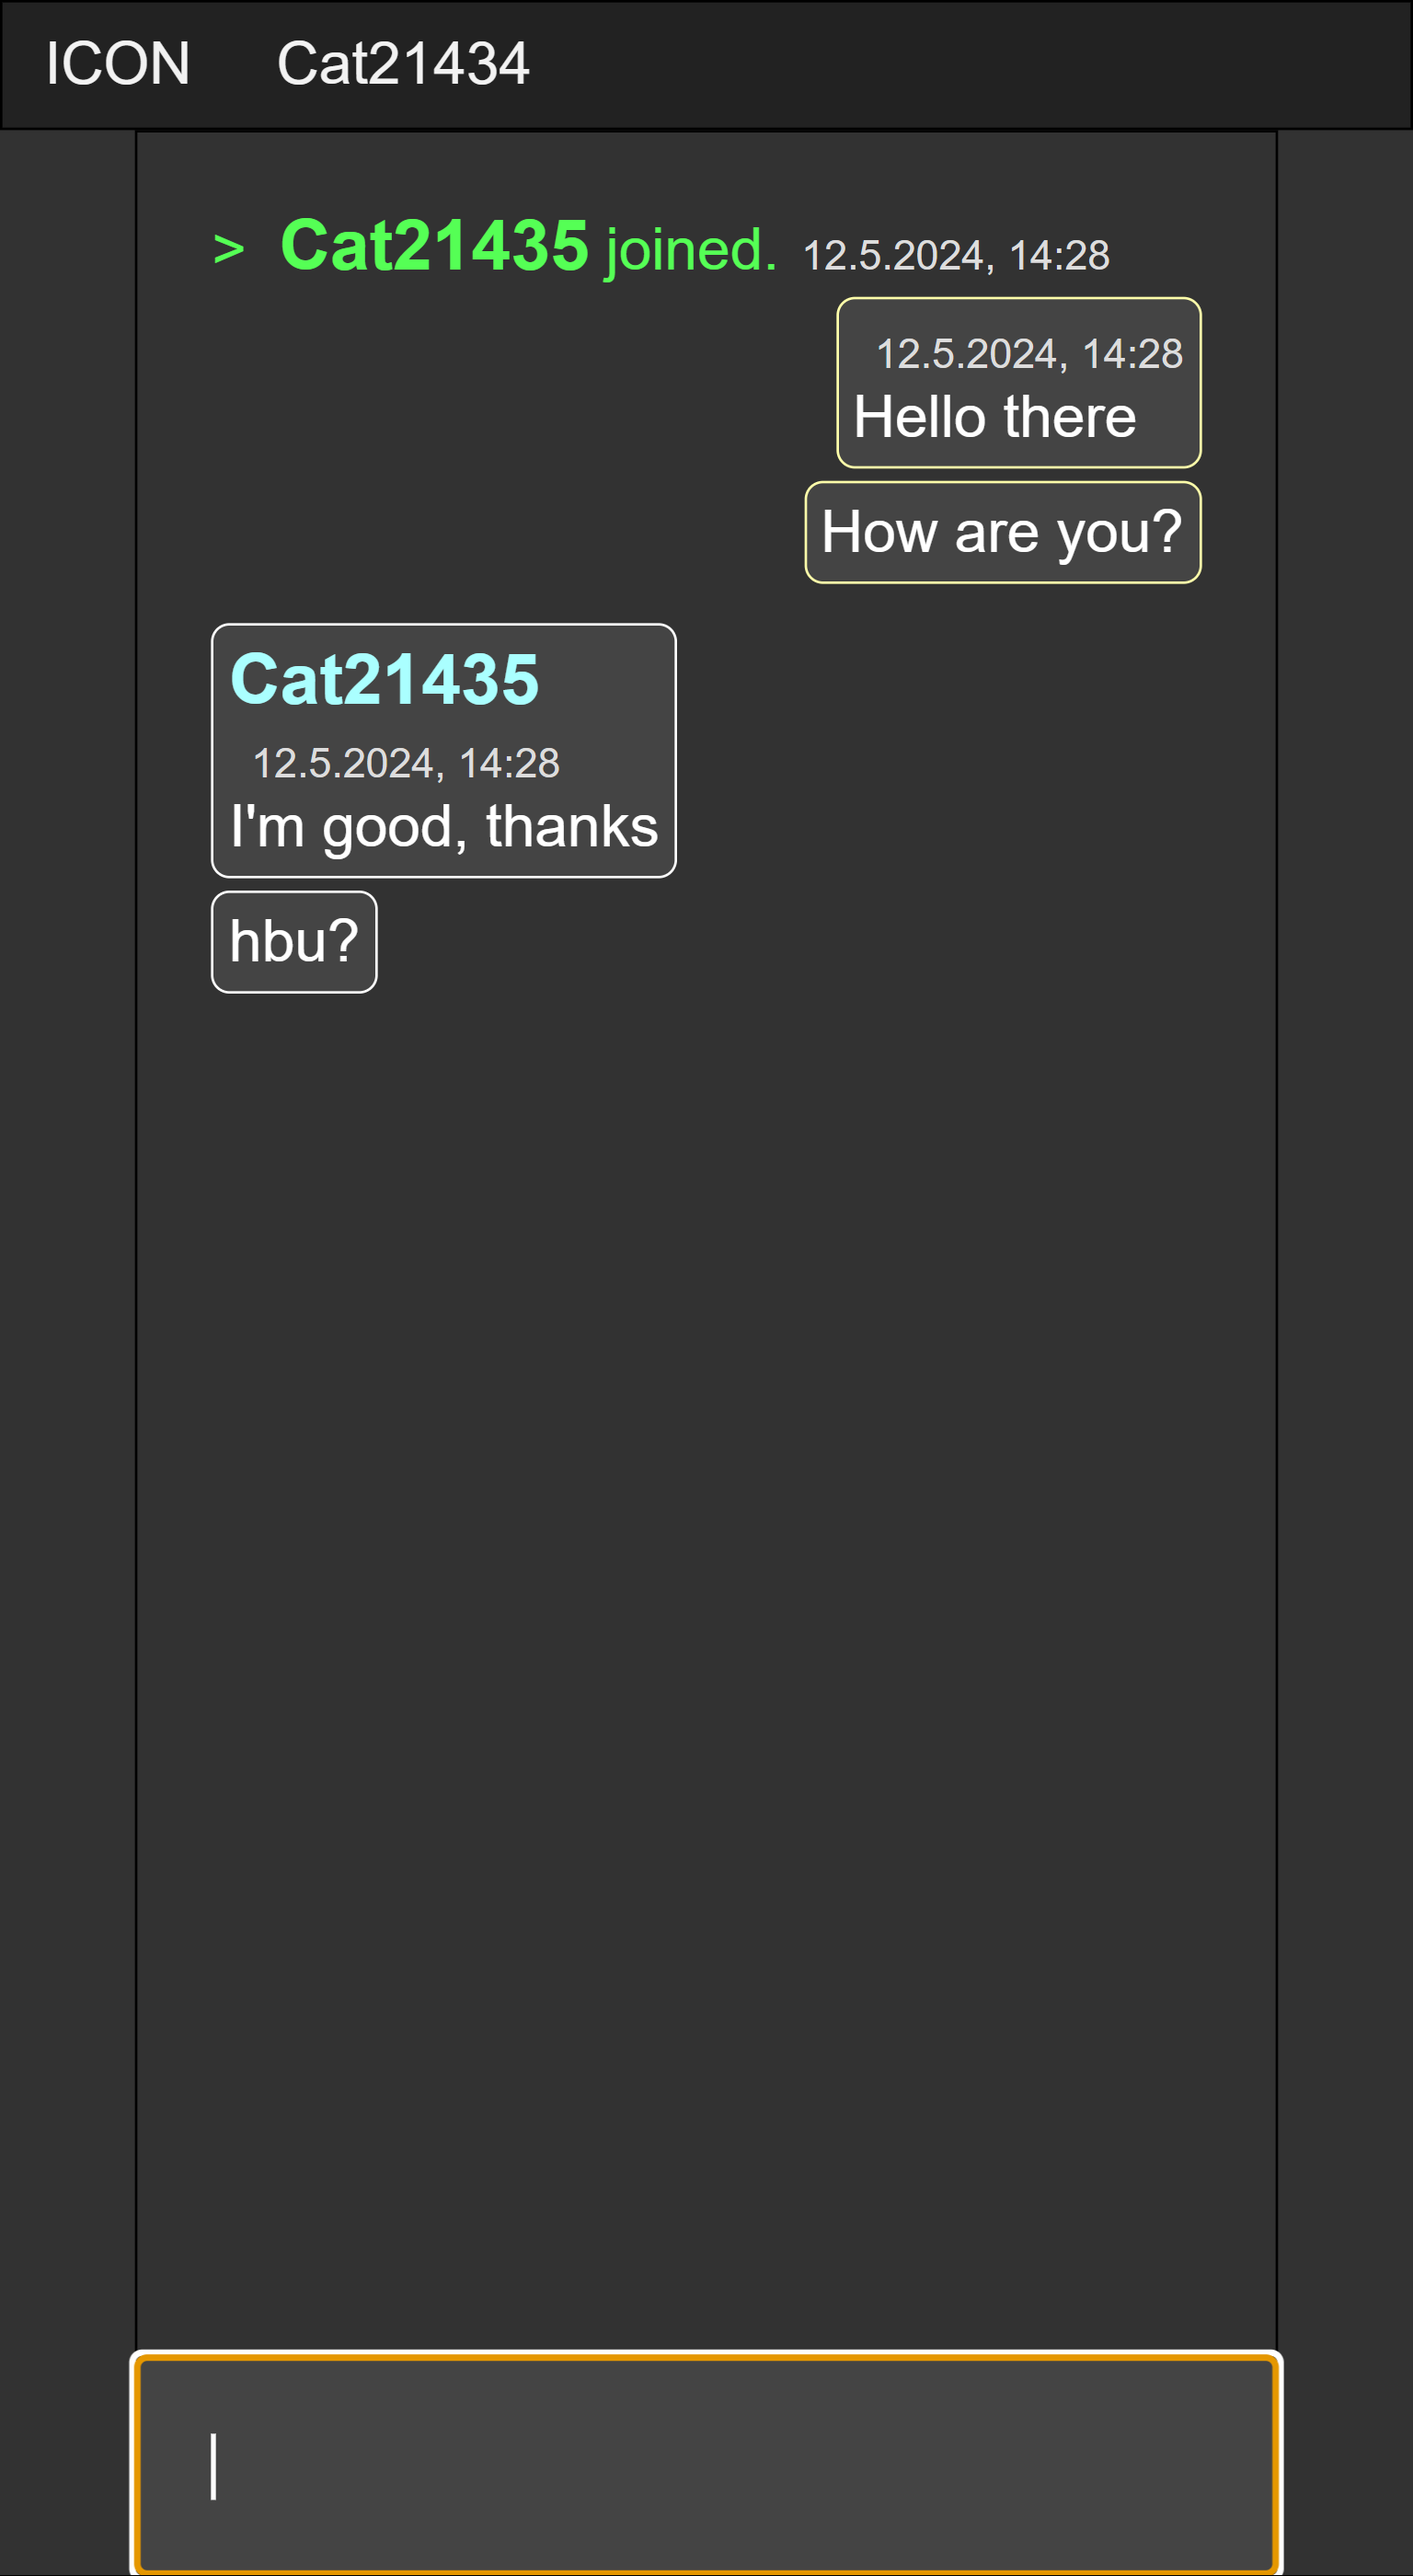
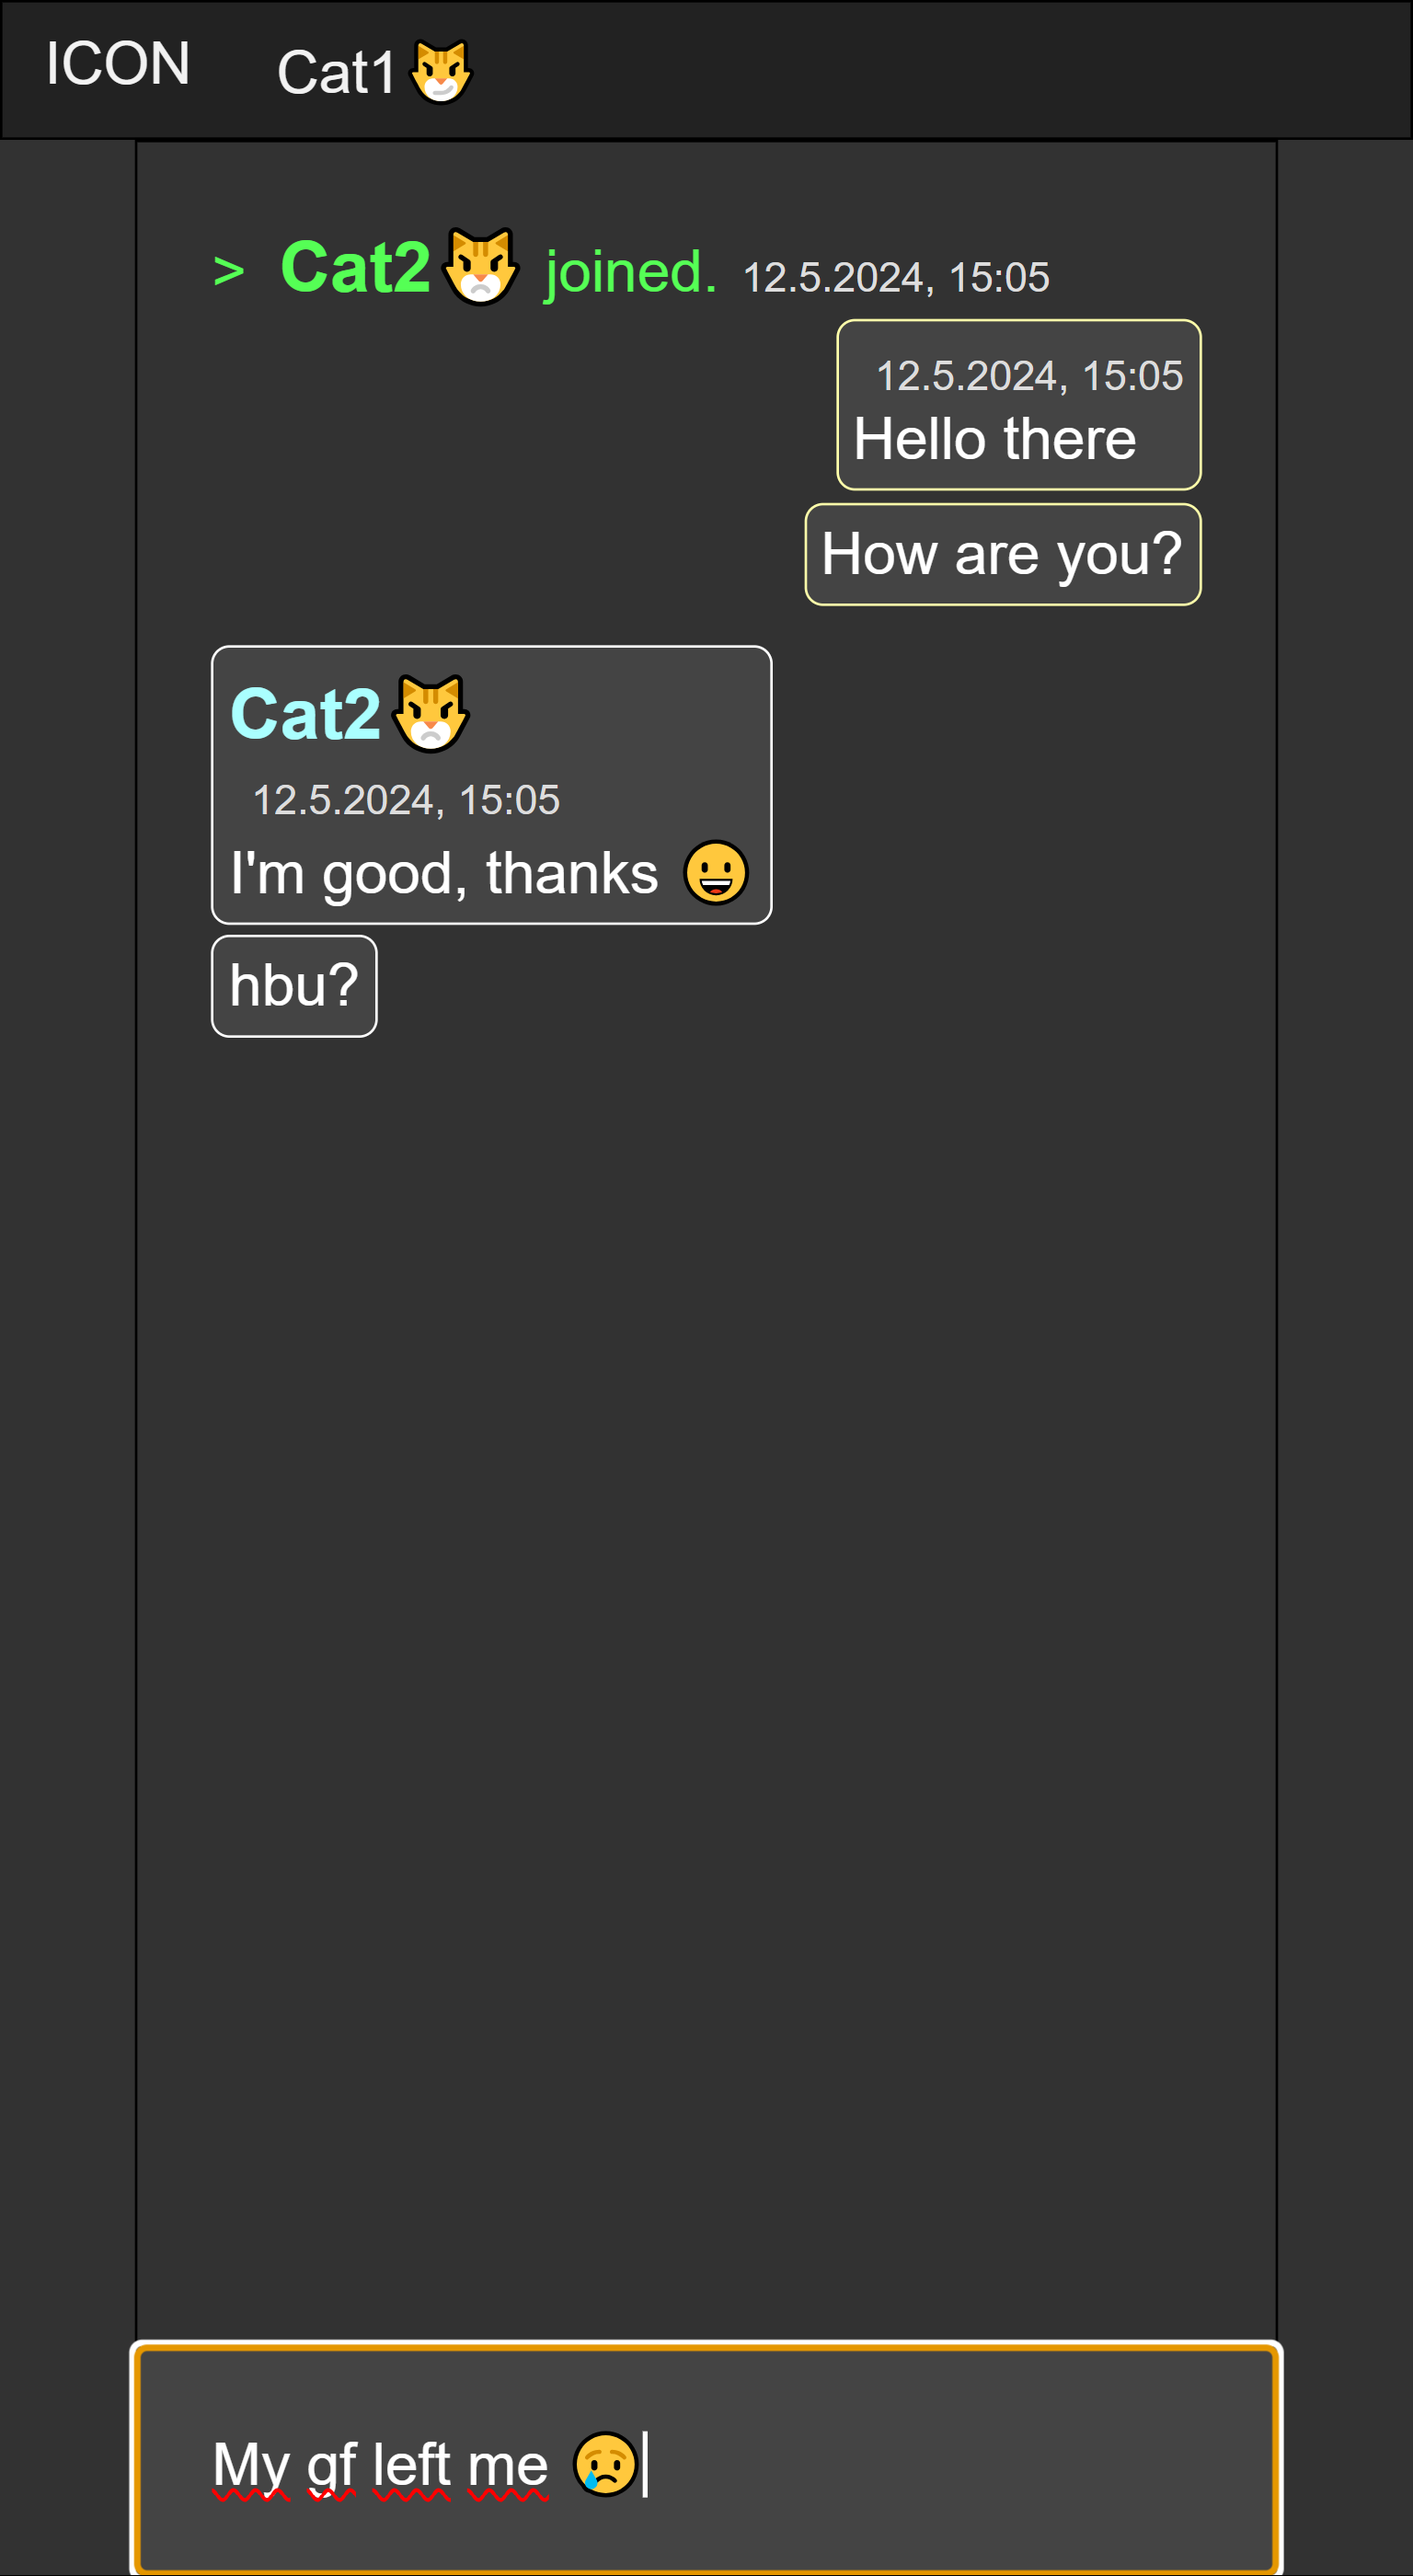
allow emojis inside username

Changed region(s): [[0.0938, 0.0, 0.9062, 0.2486], [0.1562, 0.2486, 0.5312, 0.4039], [0.0938, 0.9011, 0.9062, 0.9943]]

diff --git a/cat_room/static/wsLib.js b/cat_room/static/wsLib.js
@@ -27,7 +27,7 @@ class Connection {
   }
   async register(userName){
     // register user
-    if (!userName.match("^\\S{5,30}$")){throw new Error("invalid username")}
+    if (!userName.match(/^(?![\r\n\t\f\v ])(?!.*\s)(.{5,30})$/gm)){throw new Error("invalid username")}
     await this.waitOpen;
     this.userName = userName
     this.socket.send(JSON.stringify({"cmd":"register", "user":userName}));

diff --git a/tests/make_screenshots.py b/tests/make_screenshots.py
@@ -44,8 +44,8 @@ async def reset_emulation(tab: Target):
 
 async def main():
     url = "http://localhost"
-    usernames = ["Cat21434", "Cat21435"]
-    messages = (["Hello there", "How are you?"], ["I'm good, thanks", "hbu?"])
+    usernames = ["Cat1😼", "Cat2😾"]
+    messages = (["Hello there", "How are you?"], ["I'm good, thanks 😀", "hbu?"])
 
     options = webdriver.ChromeOptions()
     options.headless = True
@@ -59,6 +59,8 @@ async def main():
             username_inp = await tab.find_element(By.ID, "username-input", timeout=5)
             await asyncio.sleep(0.5)
 
+            await username_inp.write(username)
+
             if idx == 0:
                 await tab.save_screenshot(assets + "/register_screenshot.png")
                 await emulate_mobile(tab)
@@ -66,12 +68,10 @@ async def main():
                 await tab.save_screenshot(assets + "/register_screenshot_mobile.png")
                 await reset_emulation(tab)
 
-            await username_inp.send_keys(username)
             await enter(tab)
 
             await asyncio.sleep(1)
             idx += 1
-
         for messages, tab in zip(messages, tabs):
             tab: Target
 
@@ -80,8 +80,11 @@ async def main():
                 await inp.write(message)
                 await enter(tab)
                 await asyncio.sleep(1)
-        await tabs[0].save_screenshot(assets + "/example_screenshot.png")
 
+        inp = await tabs[0].find_element(By.ID, "inp", timeout=2)
+        await inp.write("My gf left me 😢")
+
+        await tabs[0].save_screenshot(assets + "/example_screenshot.png")
         await emulate_mobile(tabs[0])
         await asyncio.sleep(1)
         await tabs[0].save_screenshot(assets + "/example_screenshot_mobile.png")

diff --git a/cat_room/serve.py b/cat_room/serve.py
@@ -21,7 +21,7 @@ class Server:
         self._static_dir = str(pathlib.Path(__file__).parent.resolve()) + "/static"
         self.port = port
         self._host = host
-        self._match_user = re.compile(r"^\S{5,30}$")
+        self._match_user = re.compile(r"/^(?![\r\n\t\f\v ])(?!.*\s)(.{5,30})$")
 
         self.app = web.Application()
         self.app.add_routes(
